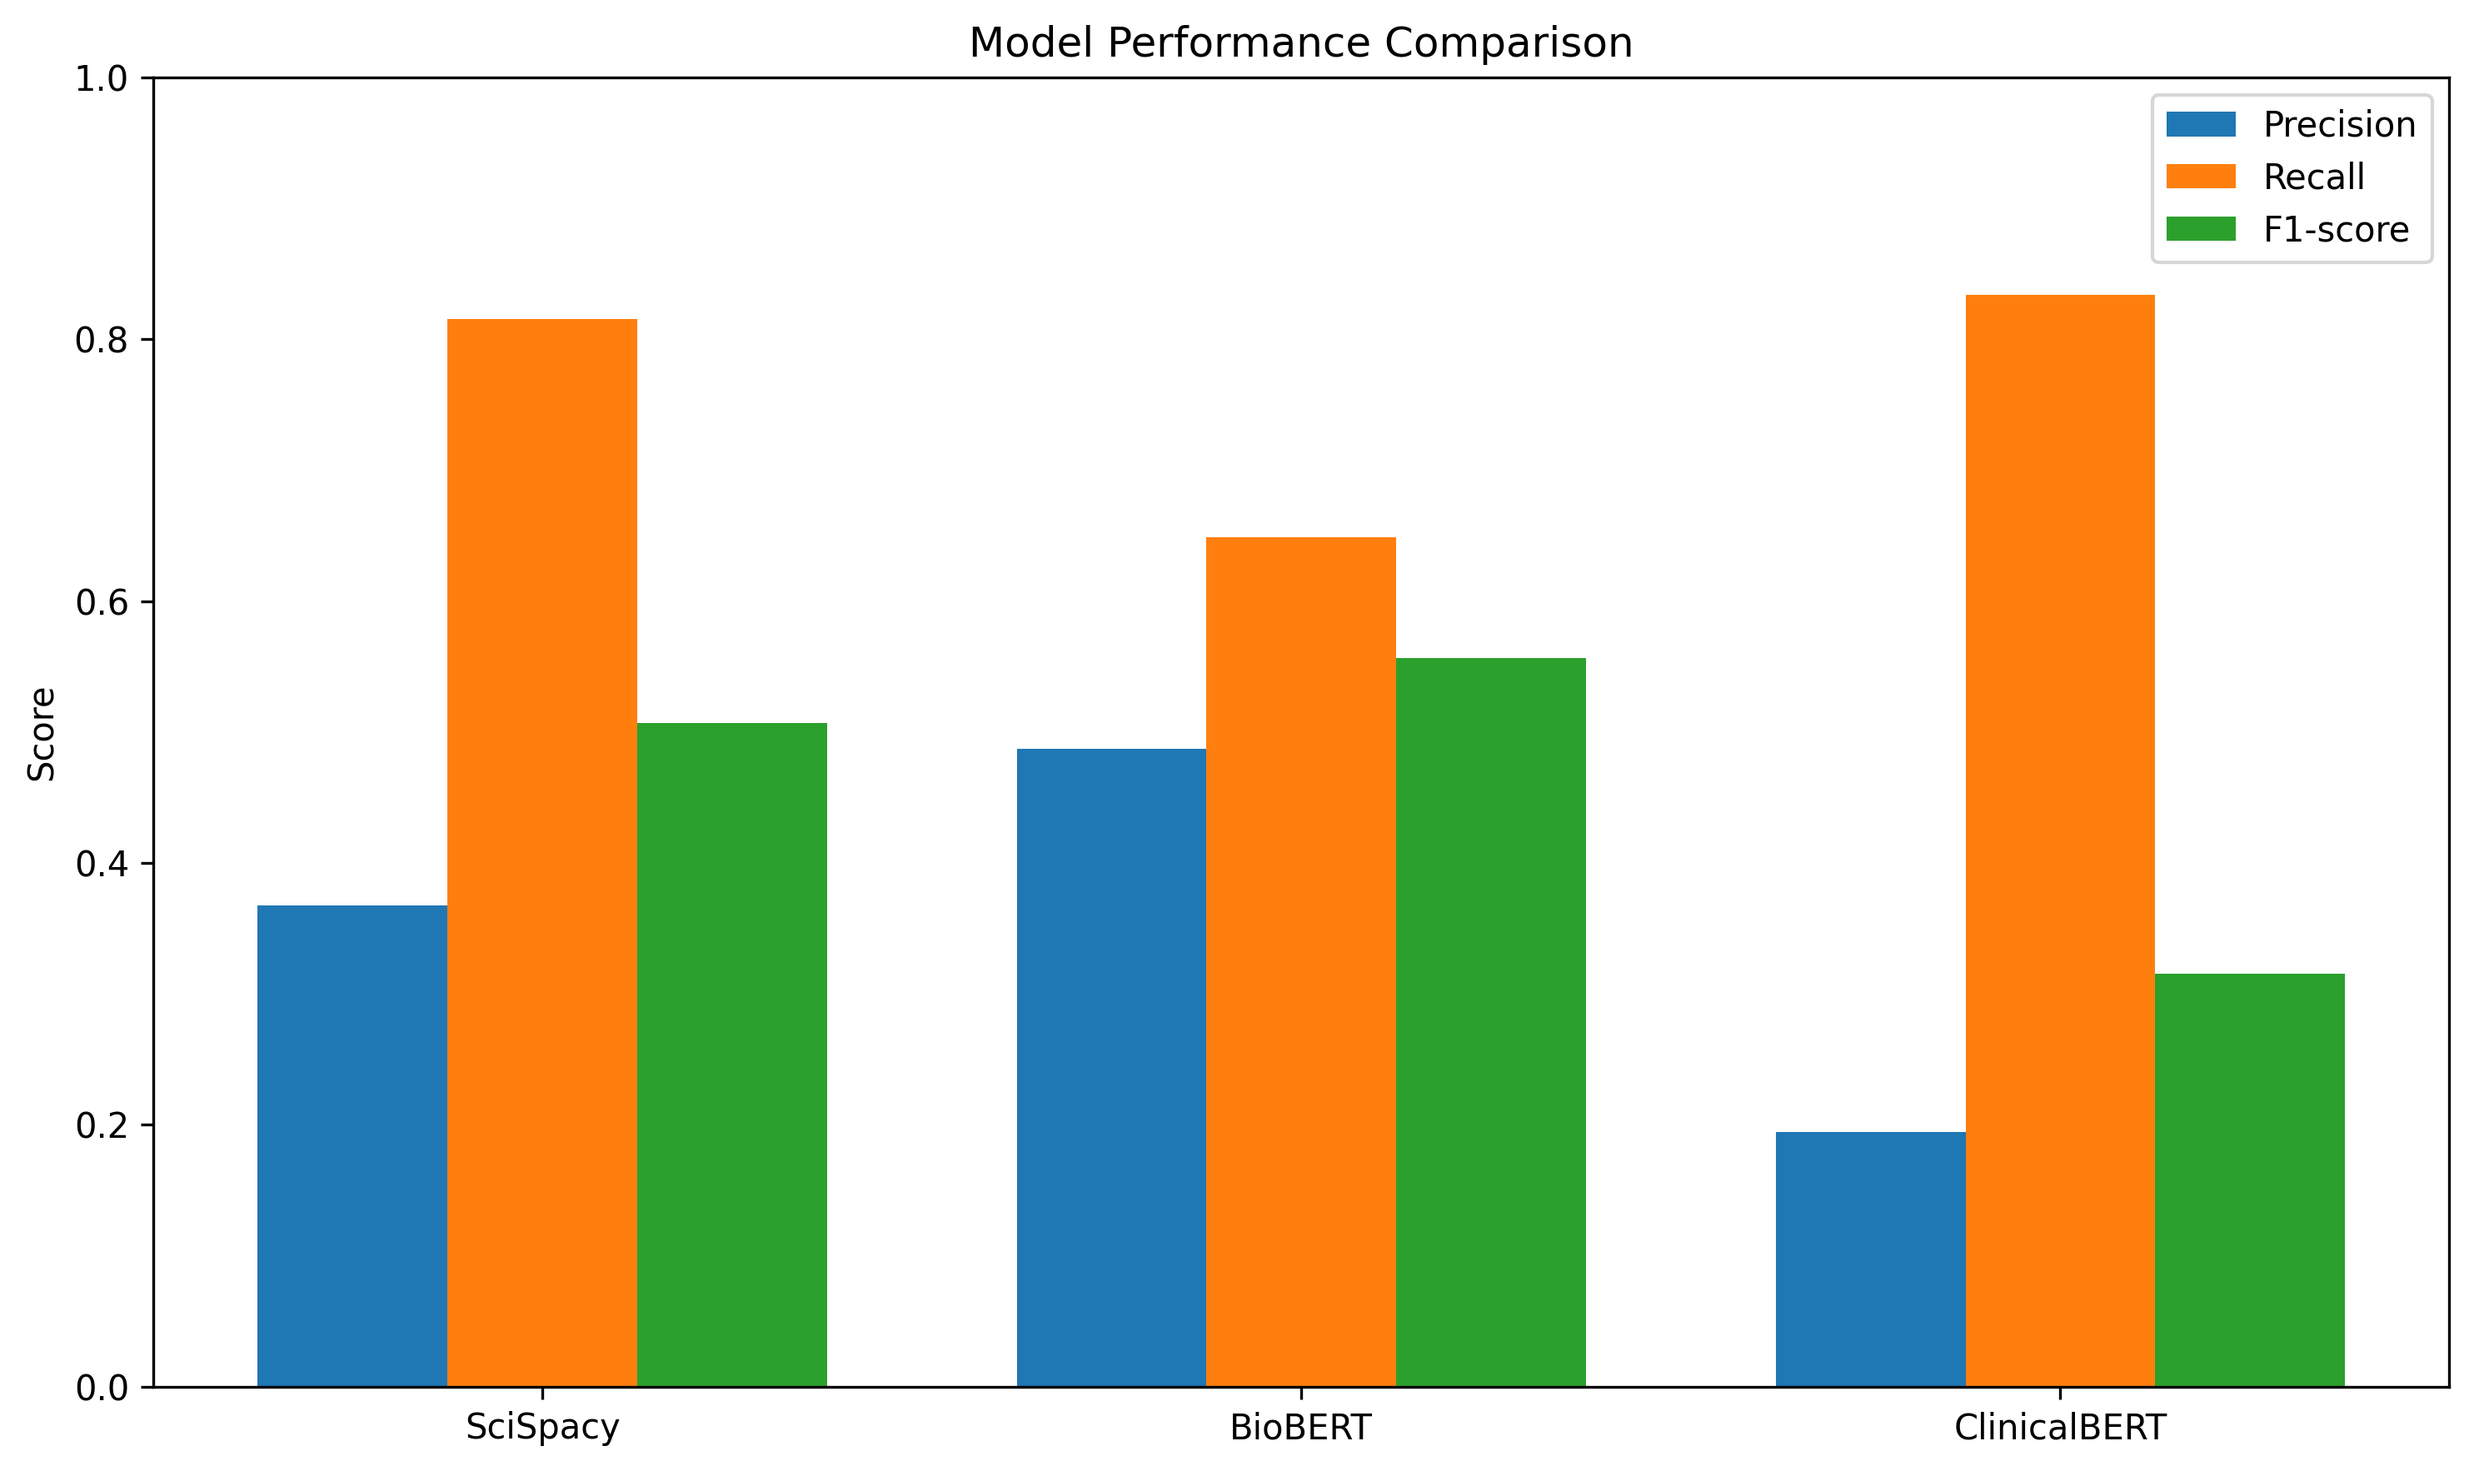
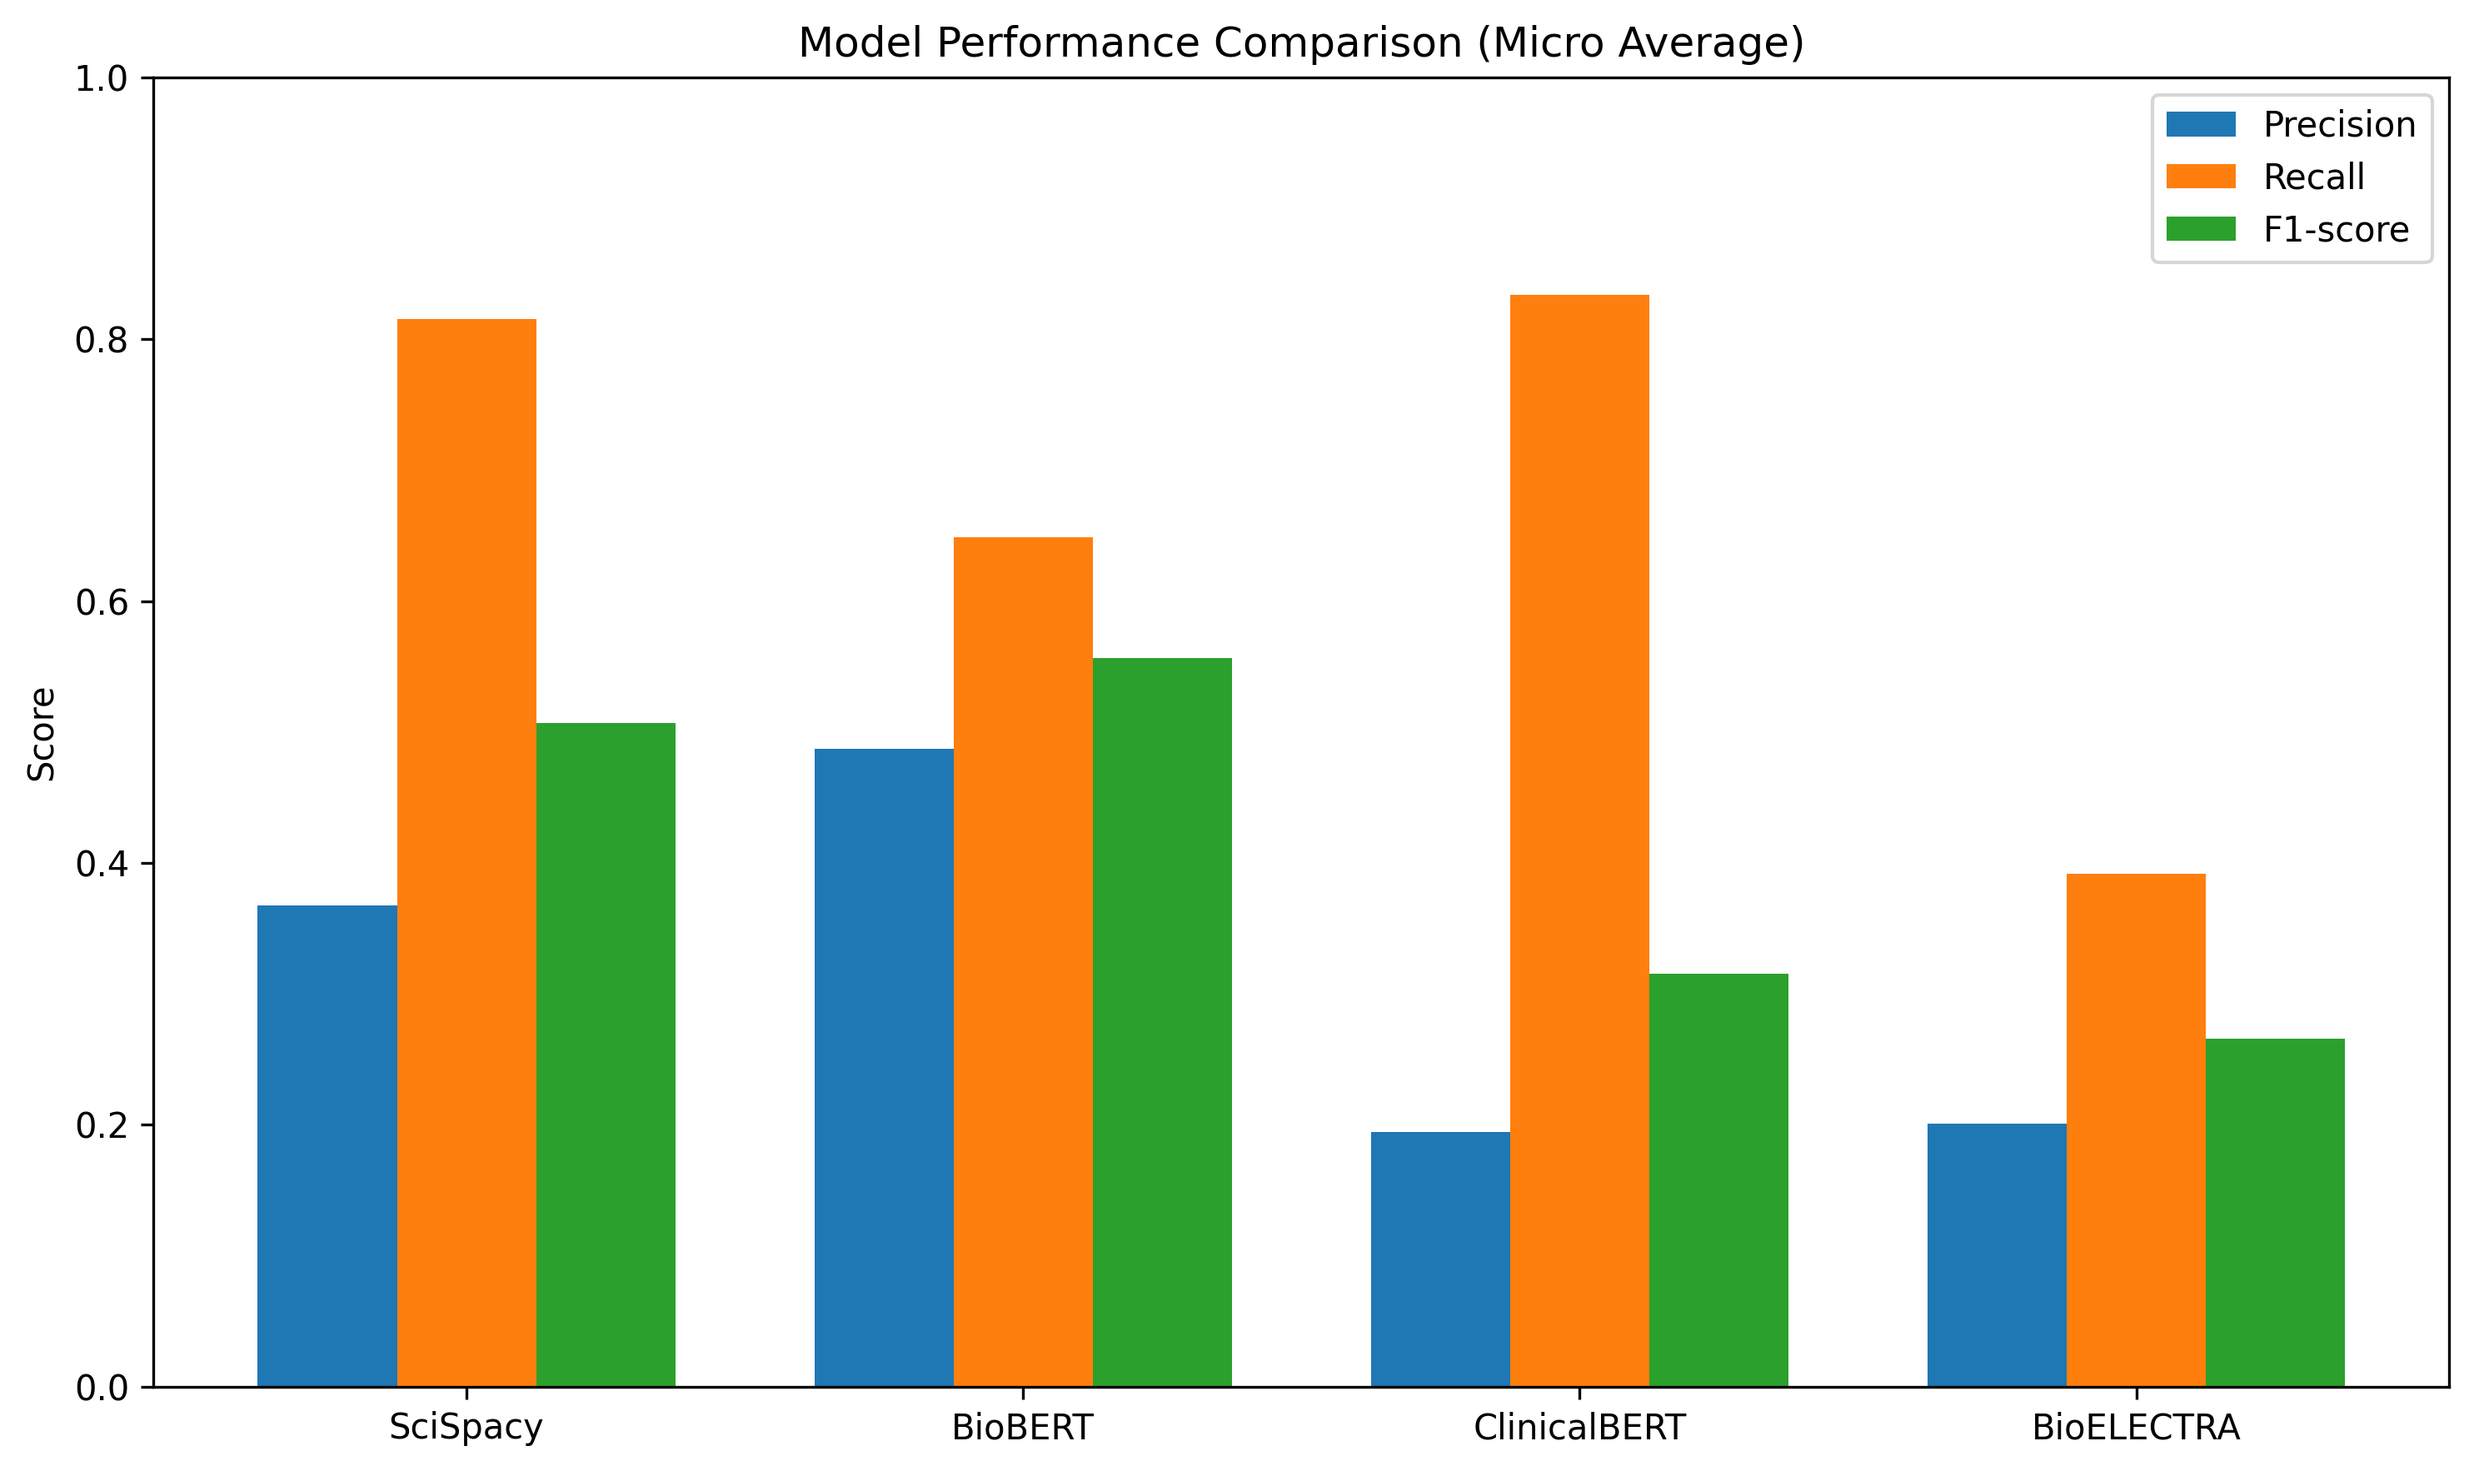
Added new files for BioELECTRA confusion matrix  and loading script, and updated benchmark and graph scripts to include BioELECTRA results.

diff --git a/src/benchmark.py b/src/benchmark.py
@@ -97,9 +97,22 @@ def evaluate_model(notes, gold_by_row, pred_by_row, model_name, runtime):
     print(classification_report(y_true, y_pred, digits=4))
 
     report_dict = classification_report(y_true, y_pred, digits=4, output_dict=True)
+
     print(classification_report(y_true, y_pred, digits=4))
 
-    add_result(model_name, precision, recall, f1, report_dict, runtime)
+    flat_y_true = [label for row in y_true for label in row]
+    flat_y_pred = [label for row in y_pred for label in row]
+
+    add_result(
+        model_name,
+        precision,
+        recall,
+        f1,
+        report_dict,
+        runtime,
+        y_true=flat_y_true,
+        y_pred=flat_y_pred,
+    )
 
 
 # C:\University\Projects\spatial-human-anatomy\data\gold\candidate_gold_entities.jsonl
@@ -115,6 +128,9 @@ def main():
     clinicalbert_path = Path(
         "data/processed/ner/transformers/clinicalbert/clinicalbert_entities_clean.jsonl"
     )
+    bioelectra_path = Path(
+        "data/processed/ner/transformers/bioelectra/bioelectra_entities.jsonl"
+    )
 
     df = pd.read_csv(notes_path)
 
@@ -126,17 +142,20 @@ def main():
     scispacy_entities = load_jsonl(scispacy_path)
     biobert_entities = load_jsonl(biobert_path)
     clinicalbert_entities = load_jsonl(clinicalbert_path)
+    bioelectra_entities = load_jsonl(bioelectra_path)
 
     gold_by_row = group_by_row(gold_entities)
     scispacy_by_row = group_by_row(scispacy_entities)
     biobert_by_row = group_by_row(biobert_entities)
     clinicalbert_by_row = group_by_row(clinicalbert_entities)
+    bioelectra_by_row = group_by_row(bioelectra_entities)
 
     evaluate_model(notes, gold_by_row, scispacy_by_row, "SciSpacy", runtime=0.2186)
     evaluate_model(notes, gold_by_row, biobert_by_row, "BioBERT", runtime=6.34)
     evaluate_model(
         notes, gold_by_row, clinicalbert_by_row, "ClinicalBERT", runtime=0.9035
     )
+    evaluate_model(notes, gold_by_row, bioelectra_by_row, "BioELECTRA", runtime=0.1577)
 
     plot_all()
 

diff --git a/src/load_bioelectra.py b/src/load_bioelectra.py
@@ -1,0 +1,67 @@
+from transformers import pipeline
+from src.biobert_chem_merger import merge_word
+from pathlib import Path
+import json
+import pandas as pd
+import time
+
+MODEL_NAME = "d4data/biomedical-ner-all"
+df = pd.read_csv("data/processed/cleaned_notes.csv")
+
+ner = pipeline("ner", model=MODEL_NAME, aggregation_strategy="simple")
+
+
+label_map = {
+    "Disease_disorder": "DISEASE",
+    "Sign_symptom": "DISEASE",
+    "Medication": "CHEMICAL",
+    "Therapeutic_procedure": "CHEMICAL",
+}
+
+start_time = time.time()
+
+BASE_DIR = Path("data/processed/ner/transformers/bioelectra")
+BASE_DIR.mkdir(parents=True, exist_ok=True)
+
+output_path = BASE_DIR / "bioelectra_entities.jsonl"
+LIMIT = len(df)
+
+with output_path.open("w", encoding="utf-8") as f:
+    for i in range(min(LIMIT, len(df))):
+        text = str(df["note_text"].iloc[i])
+
+        results = ner(text)
+        merged_results = merge_word(results)
+
+        for ent in merged_results:
+            mapped_label = label_map.get(ent["entity_group"])
+
+            if mapped_label is None:
+                continue
+
+            entity_data = {
+                "row_id": i,
+                "text": ent["word"],
+                "label": mapped_label,
+                "start_char": ent["start"],
+                "end_char": ent["end"],
+                "confidence": float(ent["score"]),
+            }
+            f.write(json.dumps(entity_data, ensure_ascii=False) + "\n")
+
+print("Saved NER entities for", min(LIMIT, len(df)), "notes to:", output_path)
+
+with output_path.open("r", encoding="utf-8") as f:
+    for i, line in enumerate(f):
+        print(line.strip())
+        if i == 2:
+            break
+
+end_time = time.time()
+elapsed_time = end_time - start_time
+print(f"Total time taken: {elapsed_time:.2f} seconds")
+
+notes_processed = min(LIMIT, len(df))
+avg_time = elapsed_time / notes_processed
+
+print("Average time per note:", round(avg_time, 4), "seconds")

diff --git a/src/graph.py b/src/graph.py
@@ -1,11 +1,21 @@
 import matplotlib.pyplot as plt
 import numpy as np
 import pandas as pd
+from sklearn.metrics import confusion_matrix, ConfusionMatrixDisplay
 
 RESULTS = []
 
 
-def add_result(model_name, precision, recall, f1, report_dict, runtime=None):
+def add_result(
+    model_name,
+    precision,
+    recall,
+    f1,
+    report_dict,
+    runtime=None,
+    y_true=None,
+    y_pred=None,
+):
     RESULTS.append(
         {
             "model": model_name,
@@ -14,6 +24,8 @@ def add_result(model_name, precision, recall, f1, report_dict, runtime=None):
             "f1": f1,
             "runtime": runtime,
             "report": report_dict,
+            "y_true": y_true,
+            "y_pred": y_pred,
         }
     )
 
@@ -141,9 +153,33 @@ def plot_per_label_f1():
     plt.show()
 
 
+def plot_confusion_matrix():
+    labels = ["O", "B-DISEASE", "I-DISEASE", "B-CHEMICAL", "I-CHEMICAL"]
+
+    for r in RESULTS:
+        if r["y_true"] is None or r["y_pred"] is None:
+            print(f"No y_true / y_pred found for {r['model']}")
+            continue
+
+        cm = confusion_matrix(r["y_true"], r["y_pred"], labels=labels)
+
+        fig, ax = plt.subplots(figsize=(7, 6))
+        disp = ConfusionMatrixDisplay(confusion_matrix=cm, display_labels=labels)
+        disp.plot(ax=ax, values_format="d")
+        plt.title(f"Confusion Matrix - {r['model']}")
+        plt.tight_layout()
+        plt.savefig(
+            f"figure/confusion_matrix_{r['model'].lower().replace(' ', '_')}.png",
+            dpi=300,
+            bbox_inches="tight",
+        )
+        plt.show()
+
+
 def plot_all():
     plot_model_performance()
     plot_runtime_comparison()
     print_summary_table()
     print_per_label_table()
     plot_per_label_f1()
+    plot_confusion_matrix()
